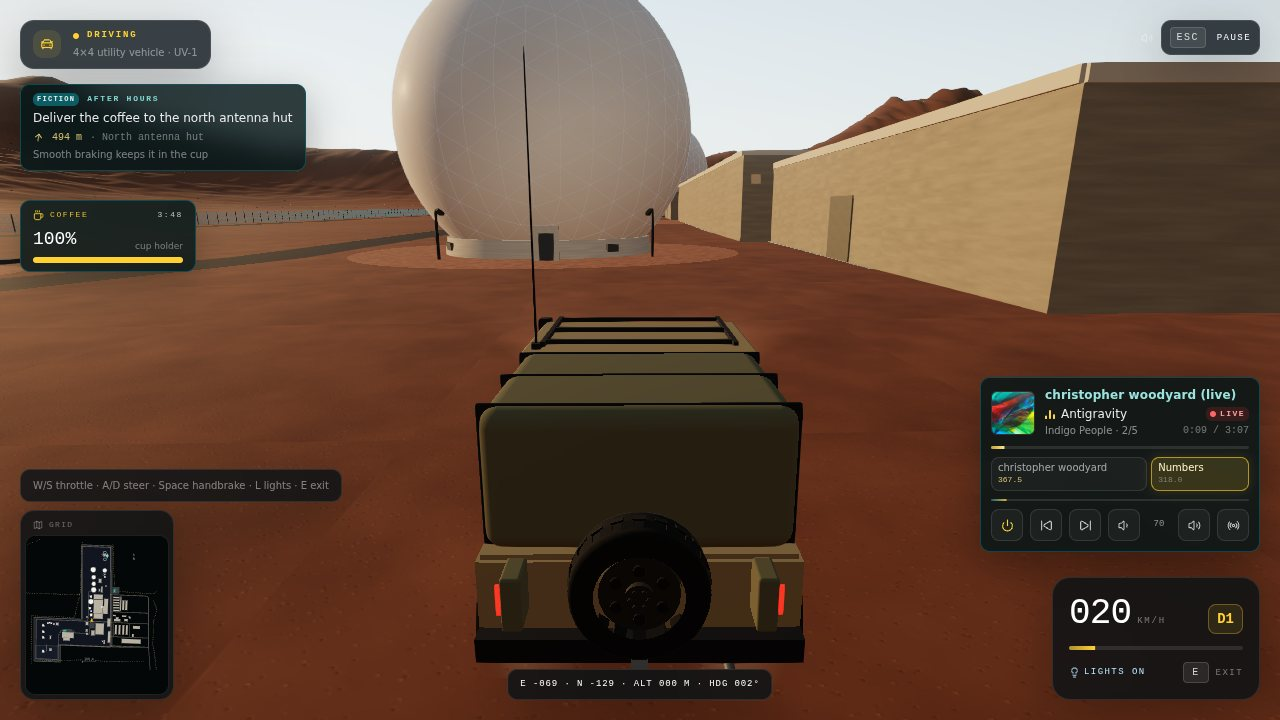
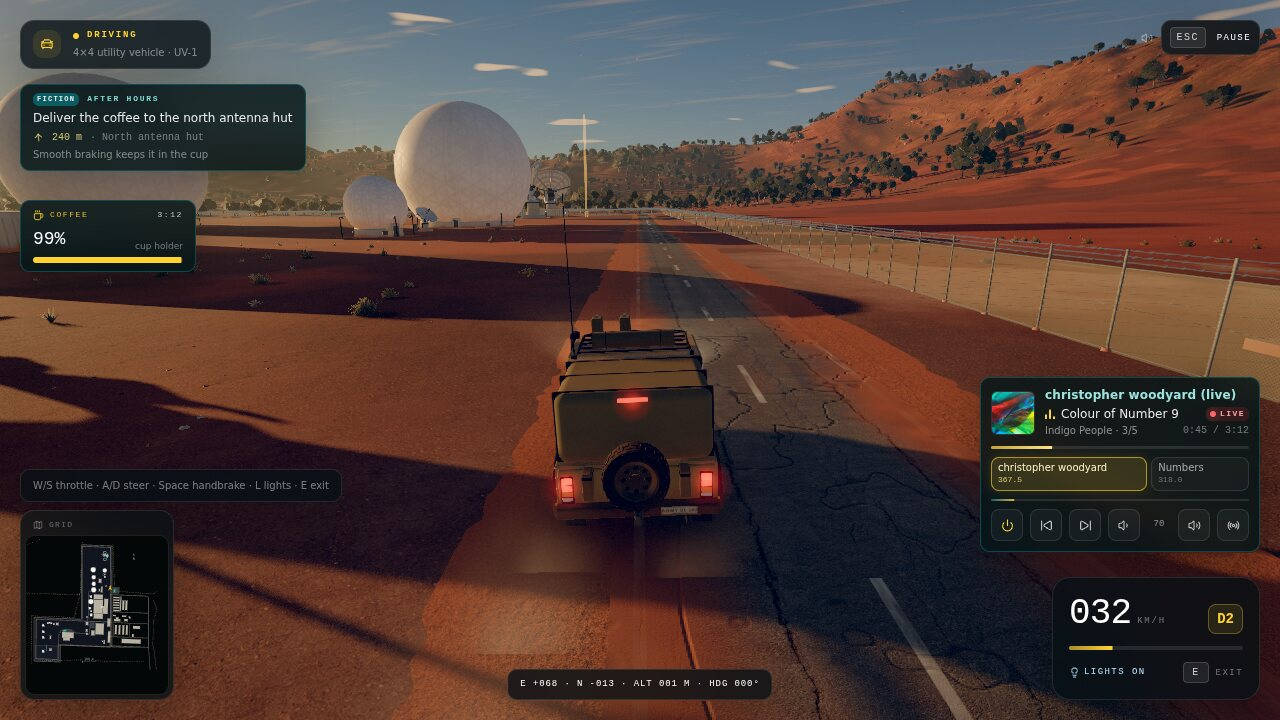
README: refilm six stills with the current graphics
The briefing card, Explore, the arrival, the drive, Frequency 420 and the
Rhythm terminal, captured by scripts/capture-readme-shots.mjs at 1280x720
on the high tier (the briefing card taller, so the whole card fits). The
alt text describes what the new frames show, and the Explore camera sits
closer so the site fills the frame.

Claude-Session: https://claude.ai/code/session_01PXixi2AnPmRS1VHTYxKRfT

diff --git a/README.md b/README.md
@@ -355,7 +355,7 @@ AGENT_LIVE_TEST=1 TYPESAFE_API_KEY=… bun scripts/verify-agent-live.ts --journe
 
 Never prefix these with `VITE_`. Then compare your `run.json` evaluation block with run B's.
 
-**No GPU needed.** Any WebGL browser will do: every screenshot here was captured in headless Chromium on software rendering. Quality adapts automatically, and touch is supported.
+**No GPU needed.** Any WebGL browser will do: every screenshot here was captured in headless Chromium on software rendering (`node scripts/capture-readme-shots.mjs` refilms them from a dev server). Quality adapts automatically, and touch is supported.
 
 ---
 
@@ -393,8 +393,8 @@ flowchart LR
 
 <table>
   <tr>
-    <td width="50%"><img src="docs/media/screens/frequency-420.jpg" alt="The radio panel holding the receiver at 419.8 while the hold meter fills; objective reads Tune the receiver to 420 and hold it there." width="100%" /></td>
-    <td width="50%"><img src="docs/media/screens/terminal.jpg" alt="The Rhythm tuning terminal: reference and player waveforms, a dial, match and lock meters, and glowing signal traces leading across the site." width="100%" /></td>
+    <td width="50%"><img src="docs/media/screens/frequency-420.jpg" alt="Standing beside the parked 4×4 under a dish antenna at dusk, the radio panel holding the receiver at 419.8 while the hold meter fills; the objective reads Tune the receiver to 420 and hold it there." width="100%" /></td>
+    <td width="50%"><img src="docs/media/screens/terminal.jpg" alt="The Rhythm tuning terminal beside antenna 11-A: reference and player waveforms, a dial, match and lock meters, the four-terminal list with distances, and glowing signal traces leading away across the site." width="100%" /></td>
   </tr>
   <tr>
     <td align="center"><sub><b>Frequency 420.</b> Sweep the dial with <code>[</code> <code>]</code> and hold it still for three seconds.</sub></td>
@@ -514,20 +514,20 @@ The first world is a playable reconstruction of the Pine Gap site in Australia's
 
 <table>
   <tr>
-    <td width="50%"><img src="docs/media/screens/explore.jpg" alt="Explore mode: an orbiting view of the whole site on red desert below the ridge line, with the data-confidence panel and the site map." width="100%" /></td>
-    <td width="50%"><img src="docs/media/screens/arrival.jpg" alt="After Hours begins: the night desk asks for a coffee while the radio starts playing Green Machine." width="100%" /></td>
+    <td width="50%"><img src="docs/media/screens/explore.jpg" alt="Explore mode: an orbiting daylight view of the whole site, radomes, roads and sheds on red earth and scrub below the ridge line, with the data-confidence panel and the site map." width="100%" /></td>
+    <td width="50%"><img src="docs/media/screens/arrival.jpg" alt="After Hours begins at dusk in the car park: the night desk asks for a coffee, the objective card points to the canteen cart, the soundtrack credit shows and the vehicle radio starts playing Green Machine." width="100%" /></td>
   </tr>
   <tr>
     <td align="center"><sub><b>Explore.</b> Orbit the whole site. The data-confidence panel says what is image-traced, what is surveyed and what is live.</sub></td>
     <td align="center"><sub><b>The shift begins.</b> Objective, captions, minimap and a physical vehicle radio, all live HUD.</sub></td>
   </tr>
   <tr>
-    <td width="50%"><img src="docs/media/screens/driving.jpg" alt="Driving a 4×4 past a radome with the vehicle radio playing Indigo People's Green Machine, the coffee at 100% in the cup holder and 494 m to the north antenna hut." width="100%" /></td>
-    <td width="50%"><img src="docs/media/screens/briefing.jpg" alt="The briefing card with Deploy, After Hours, Jev After Hours and Co-pilot." width="100%" /></td>
+    <td width="50%"><img src="docs/media/screens/driving.jpg" alt="Driving a 4×4 north along the site road at dusk, radomes close on the left and long shadows across the road, with the vehicle radio playing Indigo People's Green Machine, the coffee at 99% in the cup holder and 240 m to the north antenna hut." width="100%" /></td>
+    <td width="50%"><img src="docs/media/screens/briefing.jpg" alt="The briefing card over the car park: GTA-Style Free Roam with a challenge and seed, Play, Let Jev Play and Play with Jev Assist; Pine Gap: After Hours with After Hours, Jev After Hours and Co-pilot; and Deploy." width="100%" /></td>
   </tr>
   <tr>
     <td align="center"><sub><b>Behind the wheel.</b> The coffee rides in the cup holder; smooth braking keeps it there.</sub></td>
-    <td align="center"><sub><b>The briefing card.</b> Play yourself, play the mystery, or hand it to Jev.</sub></td>
+    <td align="center"><sub><b>The briefing card.</b> Free Roam or the night shift; play yourself, or hand it to Jev.</sub></td>
   </tr>
 </table>
 
